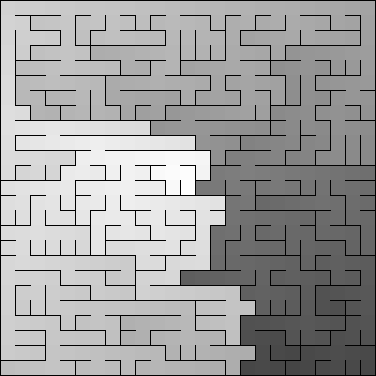
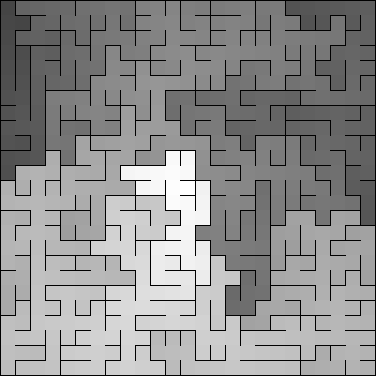
test: add non-distanced gifs

diff --git a/tests/integration/test_gif_distances_maze.py b/tests/integration/test_gif_distances_maze.py
@@ -4,7 +4,7 @@ from mazes.grids.colored_grid import ColoredGrid
 from mazes.mazes import AldousBroder, BinaryTree, Sidewinder
 
 
-def test_gif_maze():
+def test_gif_distance_maze():
     colors = [
         "reds",
         "blues",
@@ -28,8 +28,8 @@ def test_gif_maze():
         distances = start.distances()
         maze.distances = distances
         maze.to_gif(
-            output_name=f"examples/gif_maze_{color}.gif",
+            output_name=f"examples/gif_maze_{color}_.gif",
             cell_color=color,
-            display_distances=False,
+            display_distances=True,
             loop=1,  # No loop
         )
